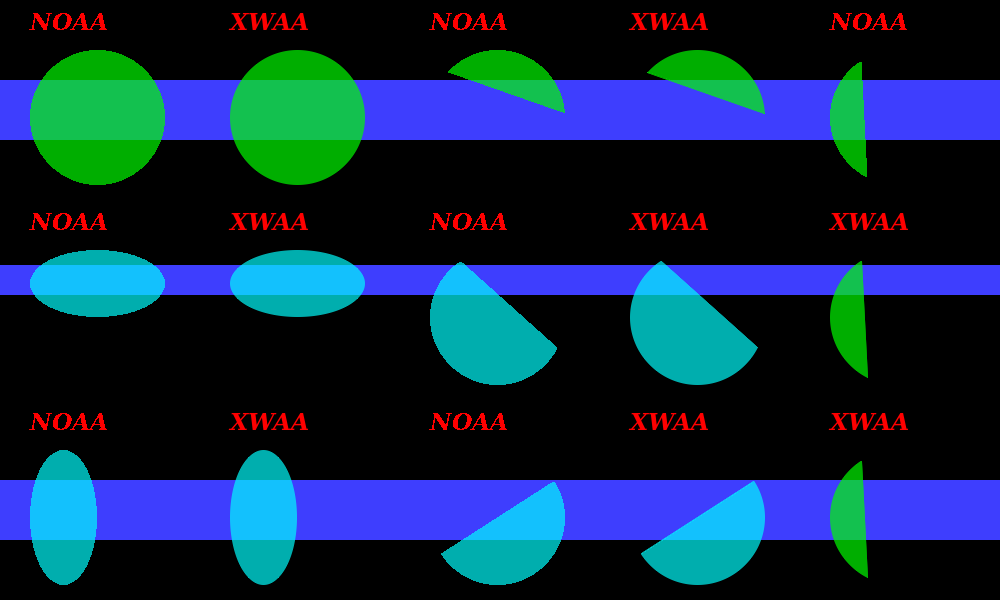
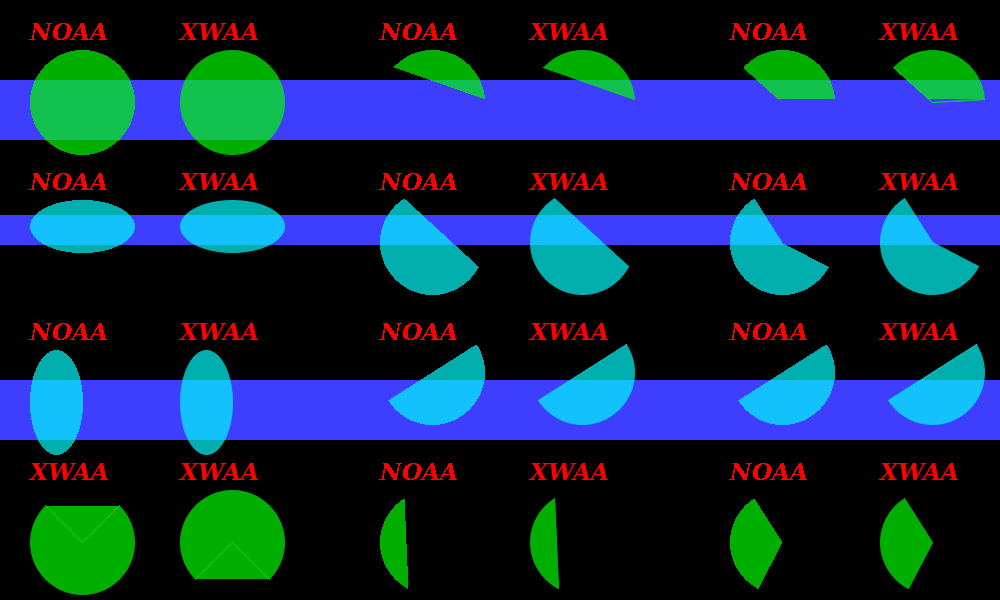
Working on fillArc

diff --git a/src/Pt-Gfx/ImagePainter2.cpp b/src/Pt-Gfx/ImagePainter2.cpp
@@ -739,7 +739,6 @@ void ImagePainter2::fillArcChordImpl(const PointF& topLeft, const SizeF& size, f
     // Determine where the direction that the hole faces to
     bool faceL, faceR, faceT, faceB;
     arcUtilDetermineHoleDirection(x1, y1, x2, y2, faceL, faceR, faceT, faceB);
-
     // lprintf("l=%d r=%d t=%d b=%d\n", faceL, faceR, faceT, faceB);
 
     // Copy the list of scanlines to be drawn later
@@ -771,6 +770,12 @@ void ImagePainter2::fillArcChordImpl(const PointF& topLeft, const SizeF& size, f
     arcUtilDrawCircumferencePixels(minX, minY, radX, radY, ctrX, ctrY, degBegin, degEnd, quartersX, quartersY, x1, y1, x2, y2, scanlinesRef);
 
     // Draw the closing line
+    // --- SourceCopy ---
+    if(_rasterizer->compositionMode() == CompositionMode::SourceCopy) {
+        _rasterizer->fillOnePixelGLineSegmentXWAA(x1, y1, x2, y2, minX, minY, 0, 0);
+    }
+
+    // --- SourceOver ---
     std::map<Pt::int32_t, Pt::int32_t> exclusionZone;
 
     for(Scanlines::const_iterator it = scanlines.begin(); it != scanlines.end(); ++it) {
@@ -809,7 +814,6 @@ void ImagePainter2::fillArcPieImpl(const PointF& topLeft, const SizeF& size, flo
     // Determine where the direction that the hole faces to
     bool faceL, faceR, faceT, faceB;
     arcUtilDetermineHoleDirection(x1, y1, x2, y2, faceL, faceR, faceT, faceB);
-
     // lprintf("l=%d r=%d t=%d b=%d\n", faceL, faceR, faceT, faceB);
 
     // Copy the list of scanlines to be drawn later
@@ -821,6 +825,8 @@ void ImagePainter2::fillArcPieImpl(const PointF& topLeft, const SizeF& size, flo
 
     // Crop the scanlines to the left and right side by running the Xiaolin Wu's anti-aliased line algorithm
     if(faceL || faceR) {
+        // TODO: FAILED TO CROP PROPERLY FOR V SHAPES !!!
+        // TODO: FAILED TO CROP PROPERLY IF THE LINE IS STEEP !!!
         arcUtilCropScanlinesUsingXWu(x1, y1, ctrX, ctrY, faceL, faceR, faceT, faceB, scanlines);
         arcUtilCropScanlinesUsingXWu(ctrX, ctrY, x2, y2, faceL, faceR, faceT, faceB, scanlines);
     }
@@ -842,6 +848,29 @@ void ImagePainter2::fillArcPieImpl(const PointF& topLeft, const SizeF& size, flo
     arcUtilDrawCircumferencePixels(minX, minY, radX, radY, ctrX, ctrY, degBegin, degEnd, quartersX, quartersY, x1, y1, x2, y2, scanlinesRef);
 
     // Draw the closing line
+    Rasterizer2::DrawLineMask mask = Rasterizer2::NullLineMask;
+
+    // --- SourceCopy ---
+    if(_rasterizer->compositionMode() == CompositionMode::SourceCopy) {
+        _rasterizer->fillOnePixelGLineSegmentXWAA(x1, y1, ctrX, ctrY, minX, minY, 0, &mask);
+        _rasterizer->fillOnePixelGLineSegmentXWAA(ctrX, ctrY, x2, y2, minX, minY, 0, &mask);
+    }
+
+    // --- SourceOver ---
+
+    // TODO: USE TWO EXCLUZION ZONE, ONE FOR EACH LINE !!!
+    // TODO: FIRST, NEEDS TO DETERMINE TO WHICH SIDE THE LINES ARE FACING TO !!!
+
+    std::map<Pt::int32_t, Pt::int32_t> exclusionZone;
+
+    for(Scanlines::const_iterator it = scanlines.begin(); it != scanlines.end(); ++it) {
+        if(faceL) exclusionZone[it->first] = it->second.from;
+        if(faceR) exclusionZone[it->first] = it->second.to;
+    }
+
+    _rasterizer->fillOnePixelGLineSegmentXWAA(x1, y1, ctrX, ctrY, minX, minY, &exclusionZone, &mask);
+    _rasterizer->fillOnePixelGLineSegmentXWAA(ctrX, ctrY, x2, y2, minX, minY, &exclusionZone, &mask);
+
 }
 
 void ImagePainter2::arcUtilCalcScanlines(Pt::int32_t radX, Pt::int32_t radY, Pt::int32_t ctrX, Pt::int32_t ctrY, float degBegin, float degEnd, bool useAntiAliasing, Pt::int32_t& quartersX, Pt::int32_t& quartersY, Pt::int32_t& x1, Pt::int32_t& y1, Pt::int32_t& x2, Pt::int32_t& y2, Scanlines& scanlines)

diff --git a/include/Pt/Gfx/ImagePainter2.h b/include/Pt/Gfx/ImagePainter2.h
@@ -95,7 +95,7 @@ class PT_GFX_API ImagePainter2 : public Painter
 
         virtual void drawEllipse(const PointF& topLeft, const SizeF& size);
 
-        // NOTE: The begin and end angle must move in counter-clockwise direction!
+        // NOTE: The begin and end angle must move in counter-clockwise direction or something will fail!
         virtual void drawArc(const PointF& topLeft, const SizeF& size, float degBegin, float degEnd, const ArcMode& arcMode);
 
         virtual void fillRect(const RectF& rect);
@@ -104,7 +104,7 @@ class PT_GFX_API ImagePainter2 : public Painter
 
         virtual void fillEllipse(const PointF& topLeft, const SizeF& size);
 
-        // NOTE: The begin and end angle must move in counter-clockwise direction!
+        // NOTE: The begin and end angle must move in counter-clockwise direction or something will fail!
         virtual void fillArc(const PointF& topLeft, const SizeF& size, float degBegin, float degEnd, const ArcMode& arcMode);
 
     public:

diff --git a/src/Pt-Gfx/tests/ImagePainterTest2_Draw_Filled.cpp b/src/Pt-Gfx/tests/ImagePainterTest2_Draw_Filled.cpp
@@ -275,6 +275,15 @@ static void testDrawFillEllipse(const char* title, Image& image, Painter& painte
     painter.setBrush( brush1 );
 
     if(ip2) {
+        ip2->setAntiAliasingMode(AntiAliasingMode::Fastest);
+        ip2->fillArc( PointF (30 , 50 + 440), SizeF(105, 105), -225, 45, ArcMode::Pie );
+        ip2->drawText( PointF(30 , 40 + 440), "XWAA" );
+
+        ip2->setAntiAliasingMode(AntiAliasingMode::Fastest);
+        ip2->fillArc( PointF (30 + 150, 50 + 440), SizeF(105, 105), -45, 225, ArcMode::Pie );
+        ip2->drawText( PointF(30 + 150, 40 + 440), "XWAA" );
+
+
         ip2->setAntiAliasingMode(AntiAliasingMode::None);
         ip2->fillArc( PointF (30 + 350, 50 + 440), SizeF(105, 105), 120 + 3, 240 + 3, ArcMode::Chord );
         ip2->drawText( PointF(30 + 350, 40 + 440), "NOAA" );

diff --git a/src/Pt-Gfx/tests/ImagePainterTest2.cpp b/src/Pt-Gfx/tests/ImagePainterTest2.cpp
@@ -48,8 +48,8 @@ using namespace Pt::Gfx;
 #define DO_BENCHMARKING 1
 
 // Detailed-test enable settings for Pt-Gfx
-#define TEST_SOURCECOPY                         1
-#define TEST_SOURCEOVER                         0
+#define TEST_SOURCECOPY                         0
+#define TEST_SOURCEOVER                         1
 
 #define TEST_DRAW_LINE_AND_TEXT                 0
 #define TEST_DRAW_RECTANGLES_FILLED_RECTANGLES  0
